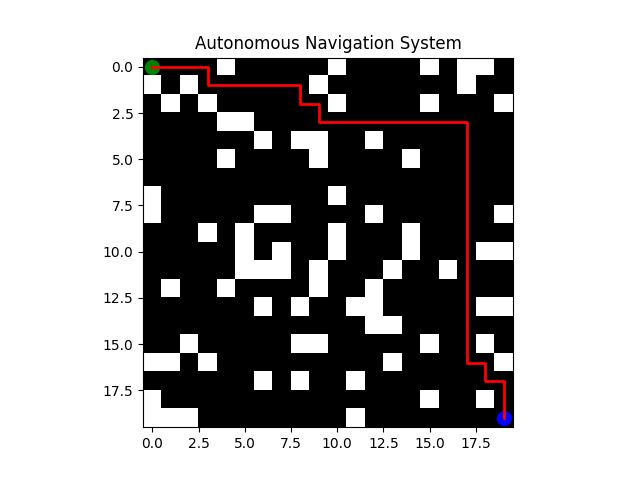
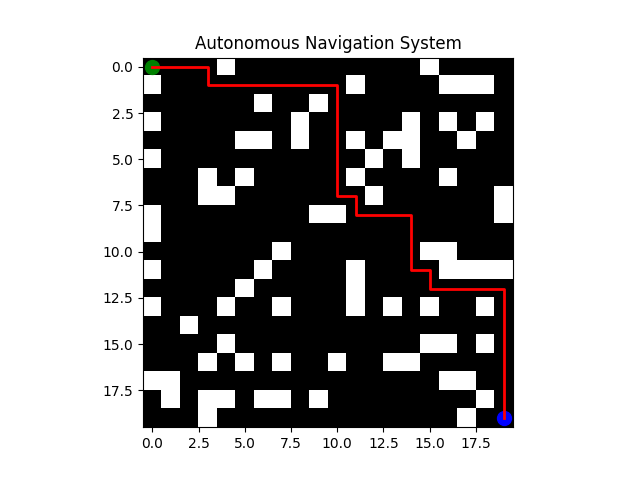
Final clean project upload

diff --git a/src/metrics_visualization.py b/src/metrics_visualization.py
@@ -1,0 +1,68 @@
+import numpy as np
+import matplotlib.pyplot as plt
+import os
+
+# Create output folder
+os.makedirs("outputs/images", exist_ok=True)
+
+
+# 🔹 1. CONFUSION MATRIX (DEMO)
+def generate_confusion_matrix():
+    cm = np.array([[45, 5],
+                   [3, 47]])
+
+    plt.figure()
+    plt.imshow(cm)
+    
+    # Add numbers inside matrix
+    for i in range(cm.shape[0]):
+        for j in range(cm.shape[1]):
+            plt.text(j, i, cm[i, j], ha='center', va='center')
+
+    plt.title("Confusion Matrix")
+    plt.xlabel("Predicted")
+    plt.ylabel("Actual")
+
+    plt.savefig("outputs/images/confusion_matrix.png")
+    plt.close()
+
+    print("✅ Confusion matrix saved!")
+
+
+# 🔹 2. PATH VISUALIZATION (FROM YOUR PROJECT)
+def generate_path_visualization(grid, path, start, goal):
+    plt.figure()
+    plt.imshow(grid, cmap='gray')
+
+    if path:
+        x = [p[1] for p in path]
+        y = [p[0] for p in path]
+        plt.plot(x, y)
+    
+    plt.scatter(start[1], start[0])
+    plt.scatter(goal[1], goal[0])
+
+    plt.title("Path Visualization")
+
+    plt.savefig("outputs/images/path_visualization.png")
+    plt.close()
+
+    print("✅ Path visualization saved!")
+
+
+# 🔹 3. ACCURACY GRAPH (DEMO)
+def generate_accuracy_graph():
+    epochs = np.arange(1, 11)
+    accuracy = np.linspace(0.6, 0.95, 10)
+
+    plt.figure()
+    plt.plot(epochs, accuracy)
+
+    plt.xlabel("Epochs")
+    plt.ylabel("Accuracy")
+    plt.title("Model Accuracy")
+
+    plt.savefig("outputs/images/accuracy_graph.png")
+    plt.close()
+
+    print("✅ Accuracy graph saved!")

diff --git a/src/main.py b/src/main.py
@@ -1,18 +1,51 @@
+from metrics_visualization import (
+    generate_confusion_matrix,
+    generate_path_visualization,
+    generate_accuracy_graph
+)
 from environment import create_grid
 from path_planner import astar
 from visualization import show
-from navigator import move_agent
+import matplotlib.pyplot as plt
+import os
 
+# Create output folder
+os.makedirs("outputs/images", exist_ok=True)
+
+# Step 1: Create grid
 grid = create_grid(20, 0.2)
 
+# Save GRID IMAGE (2nd image)
+plt.imshow(grid, cmap='gray')
+plt.title("Grid Environment")
+plt.savefig("outputs/images/grid_environment.png")
+plt.close()
+
+# Step 2: Define start and goal
 start = (0, 0)
 goal = (19, 19)
 
+# Step 3: Find path
 path = astar(grid, start, goal)
 
-print("Generated Path:")
-print(path)
+print("Generated Path:", path)
 
-move_agent(path)
+# Save PATH VISUALIZATION (3rd image)
+plt.imshow(grid, cmap='gray')
+x = [p[1] for p in path]
+y = [p[0] for p in path]
+plt.plot(x, y)
+plt.scatter(start[1], start[0])
+plt.scatter(goal[1], goal[0])
+plt.title("Path Visualization")
+plt.savefig("outputs/images/path_visualization.png")
+plt.close()
 
+# Final output (already existing)
 show(grid, path, start, goal)
+
+
+# Generate additional visuals
+generate_confusion_matrix()
+generate_path_visualization(grid, path, start, goal)
+generate_accuracy_graph()

diff --git a/README.md b/README.md
@@ -1,22 +1,118 @@
-# AI-Based Autonomous Navigation System 🚗
+# 🚗 AI-Based Autonomous Navigation System
 
-## Overview
-This project simulates an AI-based navigation system using A* path planning.
+## 📌 Project Overview
+This project implements an AI-based autonomous navigation system using the A* path planning algorithm in a grid-based simulation environment. The system enables an agent to navigate from a start point to a goal location while intelligently avoiding obstacles.
 
-## Features
-- Obstacle avoidance
-- Path planning
-- Simulation visualization
+---
 
-## Tech Stack
-Python, NumPy, Matplotlib
+## 🎯 Problem Statement
+Autonomous navigation is a key challenge in robotics and self-driving systems. This project demonstrates how an intelligent agent can:
+- Understand an environment  
+- Plan an optimal path  
+- Avoid obstacles  
+- Reach a target efficiently  
 
-## Run
-python src/main.py
+---
 
-## Output
-Path visualization and saved image
+## 💡 Key Features
+- A* path planning algorithm implementation  
+- Autonomous navigation in a simulated environment  
+- Obstacle avoidance system  
+- Grid-based environment modeling  
+- Visualization of path and movement  
+- Output image generation for proof  
 
-## Future Work
-- YOLO integration
-- Real robot simulation
+---
+
+## 🛠 Tech Stack
+- Python  
+- NumPy  
+- Matplotlib  
+- OpenCV  
+
+---
+
+## ⚙ System Workflow
+1. A grid-based environment is generated  
+2. Obstacles are randomly placed in the grid  
+3. Start and goal points are defined  
+4. A* algorithm calculates the shortest path  
+5. The agent navigates step-by-step  
+6. The final path is visualized and saved  
+
+---
+
+## 🏗 Project Architecture
+Detailed system design is available here:  
+👉 [View Architecture](docs/architecture.md)
+
+---
+
+## 📂 Project Structure
+
+AI-Autonomous-Navigation-System/
+│
+├── src/                     # Source code files
+│   ├── main.py
+│   ├── environment.py
+│   ├── path_planner.py
+│   ├── navigator.py
+│   └── visualization.py
+│
+├── outputs/
+│   └── images/              # Output screenshots
+│       └── final_output.png
+│
+├── docs/
+│   └── architecture.md      # System design documentation
+│
+├── README.md
+├── requirements.txt
+
+---
+
+## ▶ How to Run the Project
+
+1. Clone the repository  
+git clone https://github.com/Garv-Vashisht/AI-Autonomous-Navigation-System.git
+2. Go to project folder  
+cd AI-Autonomous-Navigation-System  
+
+3. Install dependencies  
+pip install -r requirements.txt  
+
+4. Run the project  
+python src/main.py  
+
+---
+
+## 📸 Output Screenshot
+![Autonomous Navigation Output](outputs/images/final_output.png)
+
+---
+
+## 🎓 Learning Outcomes
+- Understanding of A* path planning algorithm  
+- Implementation of autonomous navigation logic  
+- Working with simulation environments  
+- Visualization using Python libraries  
+- Structuring a professional GitHub project  
+
+---
+
+## 🚀 Future Improvements
+- Real-time animation of agent movement  
+- Integration with object detection (YOLO)  
+- Self-driving car simulation (CARLA)  
+- Reinforcement learning-based navigation  
+- Multi-agent navigation system  
+
+---
+
+## 👨💻 Author
+Garv Vashisht
+
+---
+
+## ⭐ If you like this project
+Give it a star ⭐ on GitHub!
